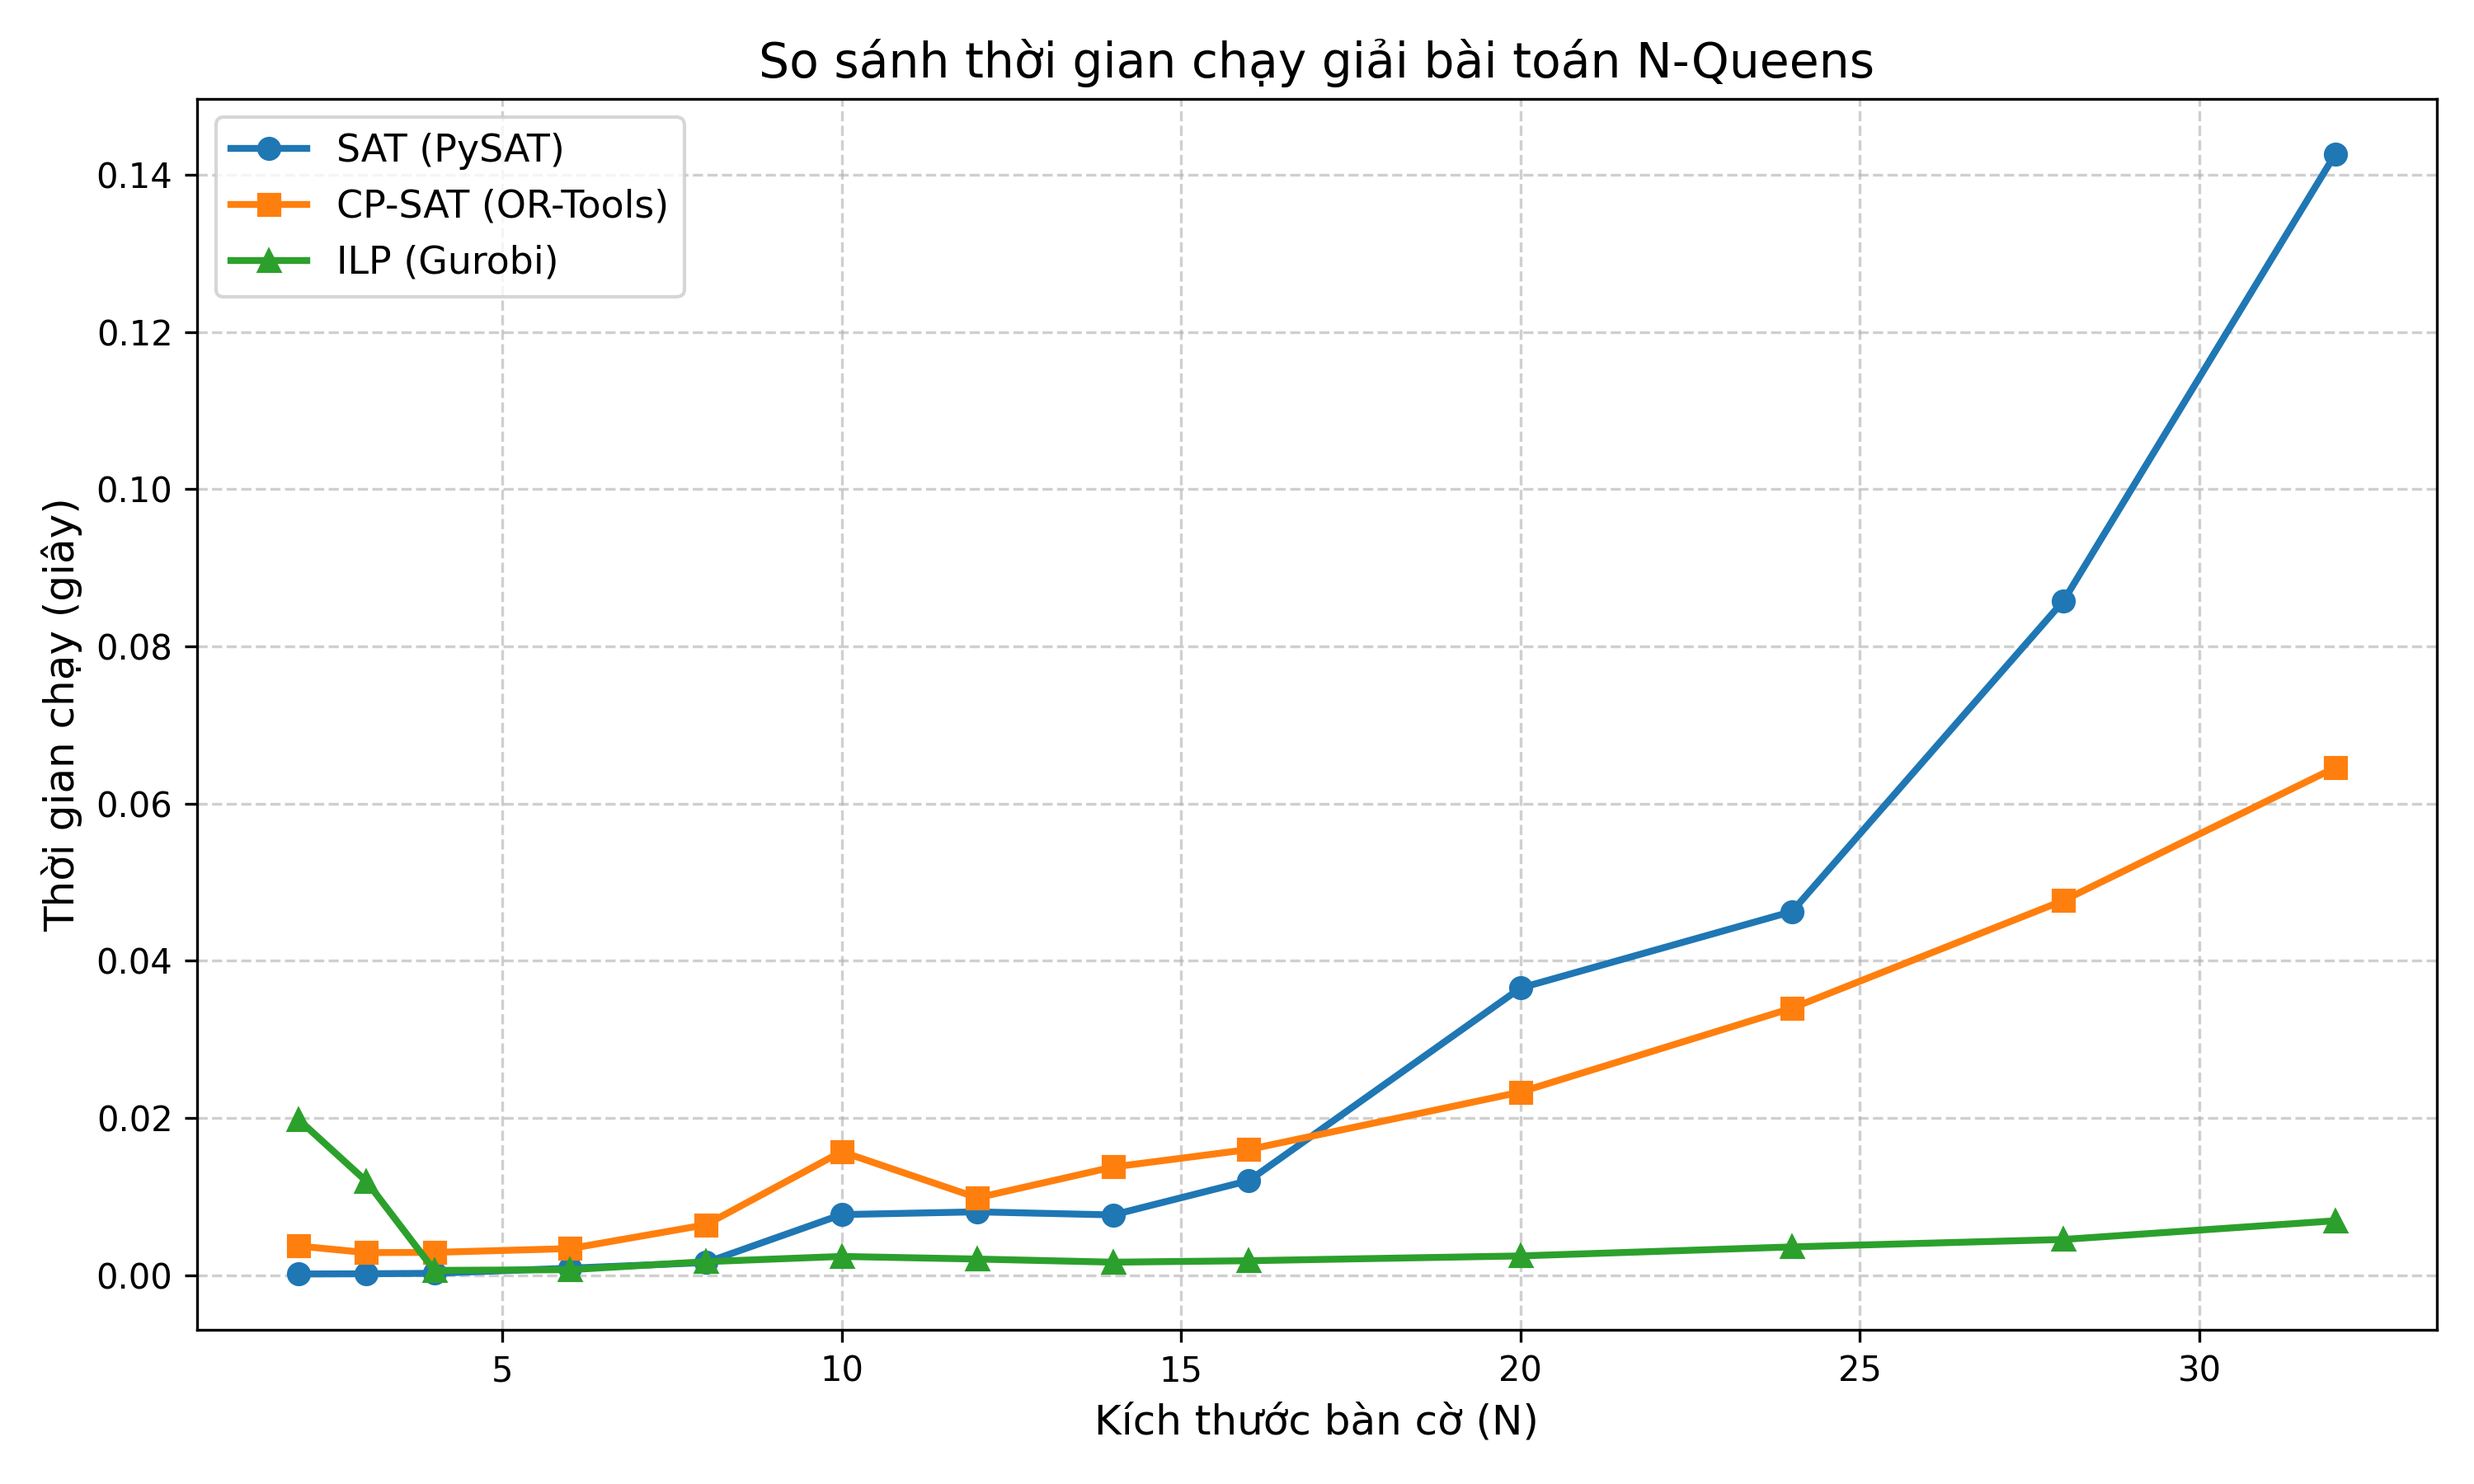
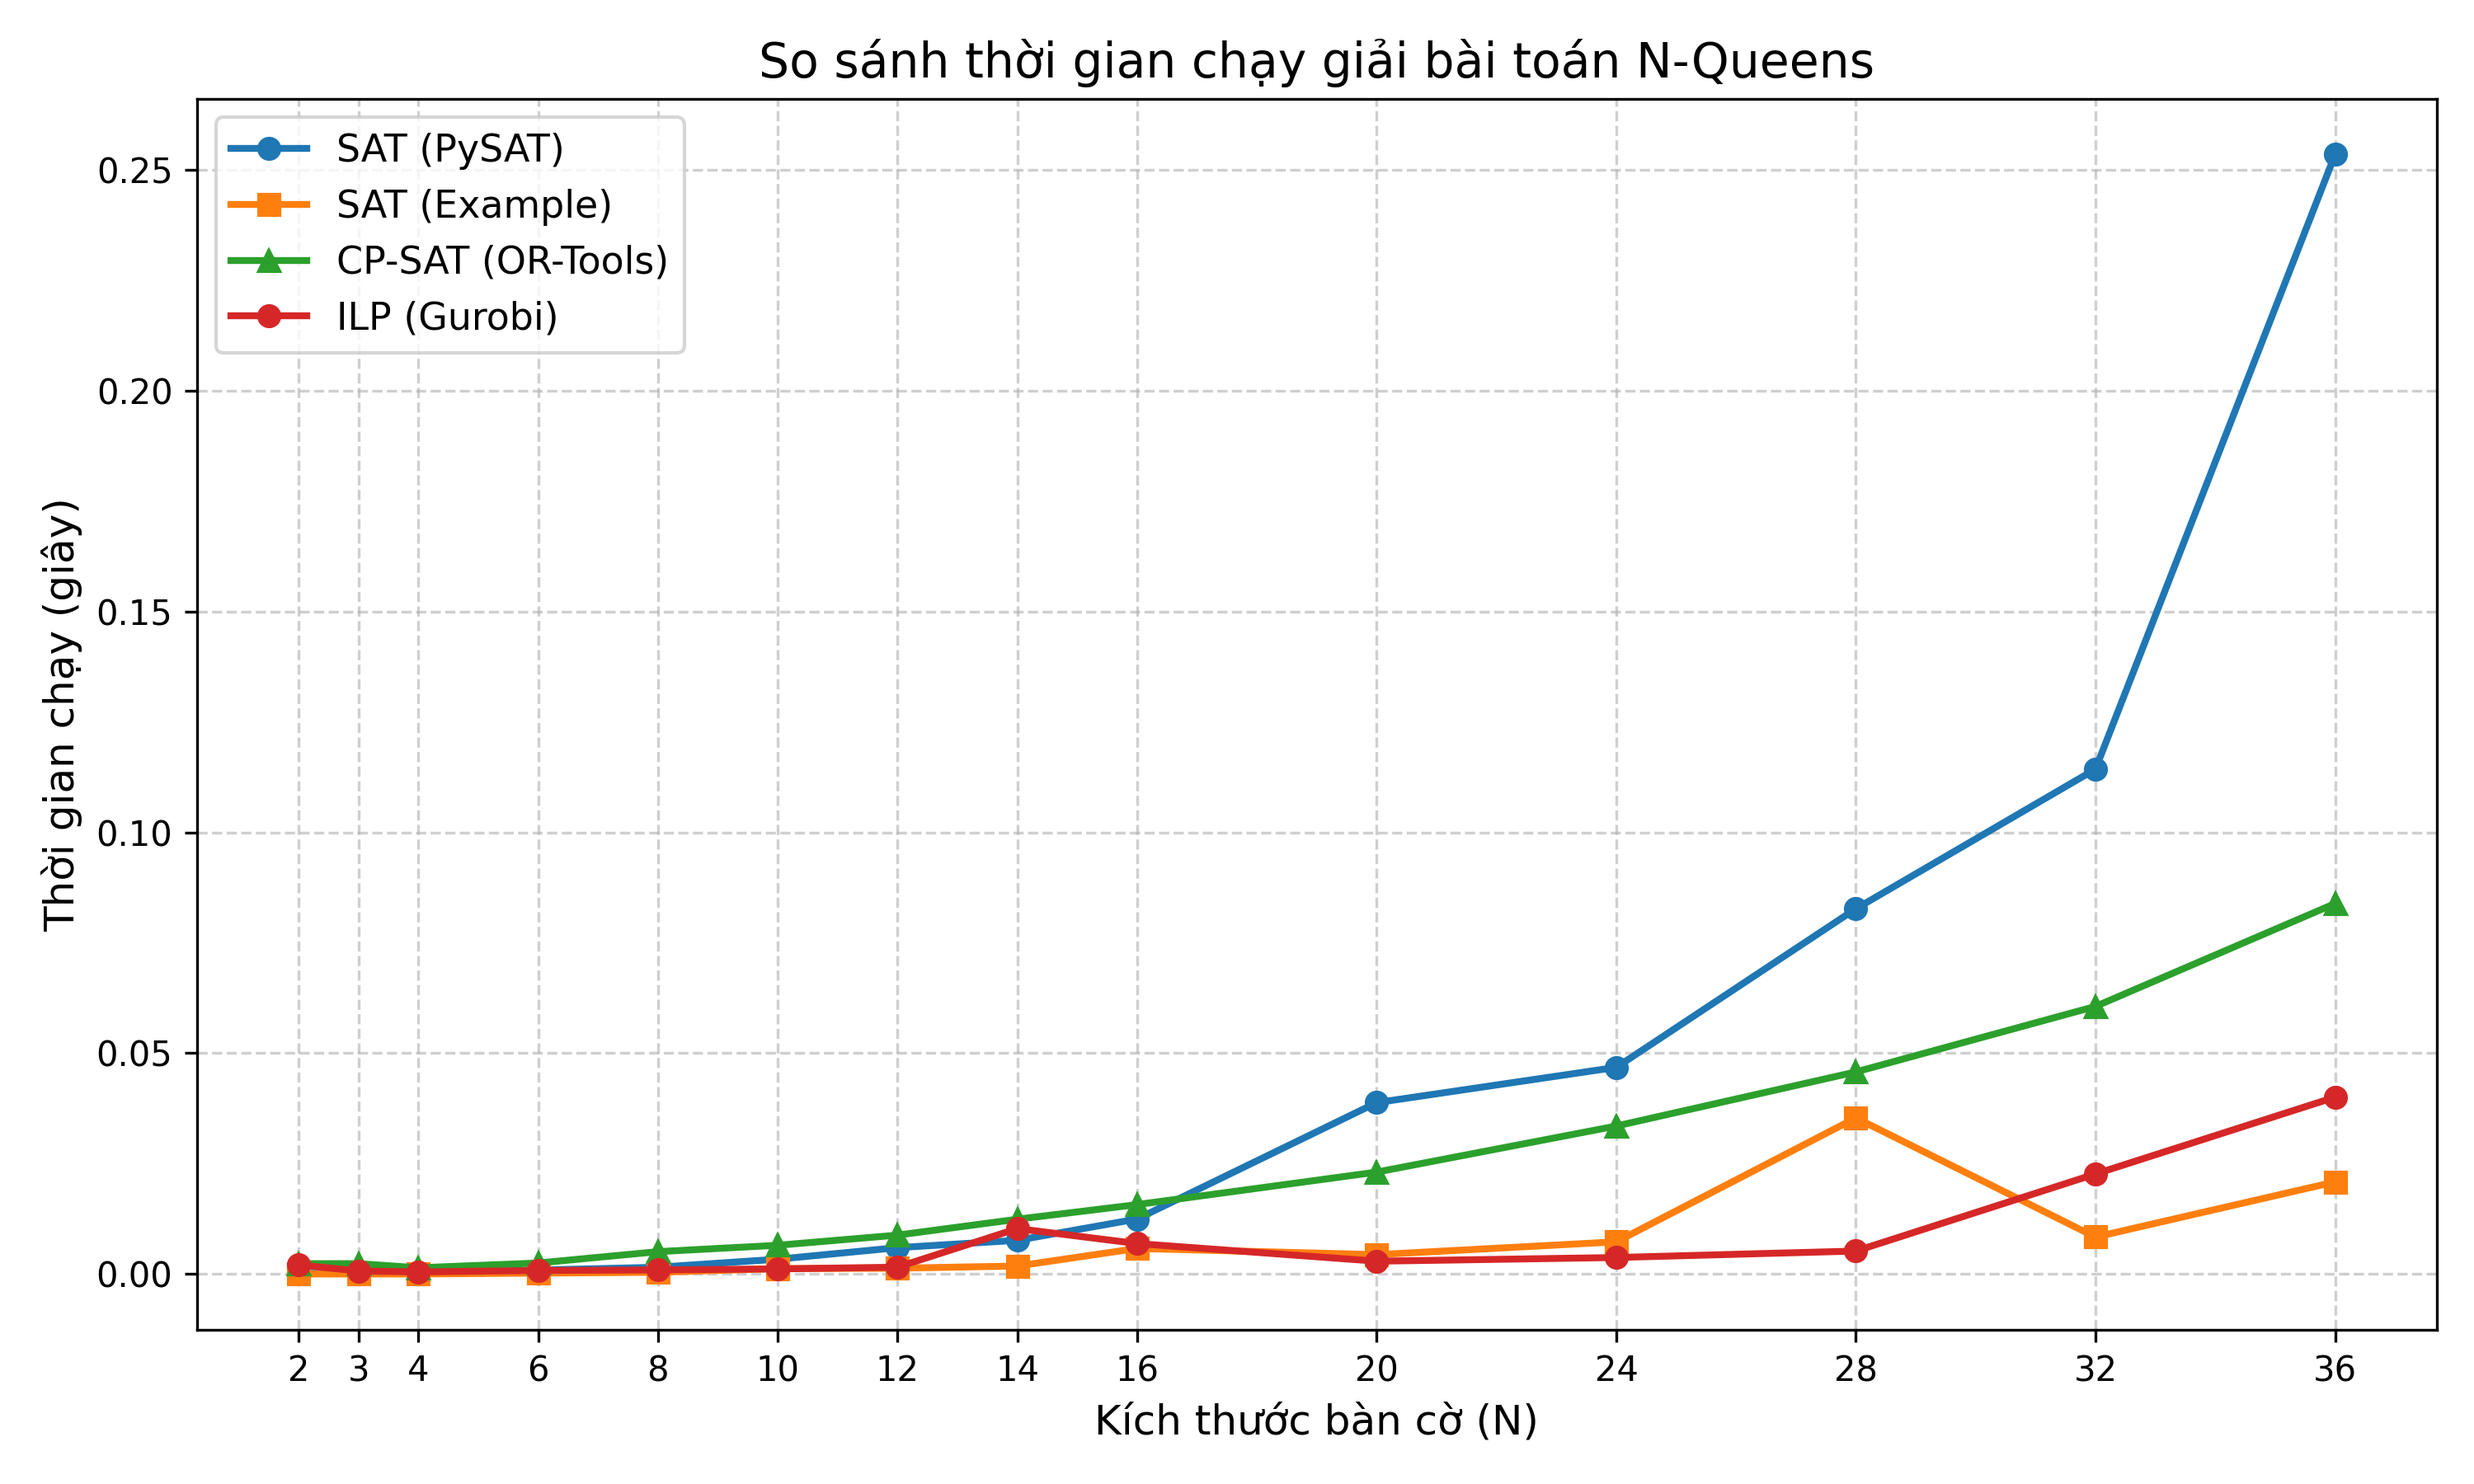
cập nhật testcases + thêm file example

diff --git a/src/example_sat_model.py b/src/example_sat_model.py
@@ -1,0 +1,81 @@
+import math
+import time
+from pysat.solvers import Glucose3
+
+def solve_nqueens_binary_encoding(n):
+    # Số bit cần thiết để biểu diễn chỉ số cột từ 0 đến n - 1
+    k = math.ceil(math.log2(n)) if n > 1 else 1
+
+    # Ánh xạ bit thứ b của hàng r sang biến SAT (1-based index)
+    # r chạy từ 0 đến n - 1, b chạy từ 0 đến k - 1
+    def bit_var(r, b):
+        return r * k + b + 1
+
+    clauses = []
+
+    # 1. Cấm các giá trị cột không hợp lệ: c >= n (nếu 2^k > n)
+    # Nếu một cấu hình bit tạo ra giá trị c >= n, phủ định cấu hình bit đó
+    for r in range(n):
+        for val in range(n, 1 << k):
+            clause = []
+            for b in range(k):
+                if (val >> b) & 1:
+                    clause.append(-bit_var(r, b))
+                else:
+                    clause.append(bit_var(r, b))
+            clauses.append(clause)
+
+    # Hàm tạo mệnh đề cấm: (hàng r1 chọn cột c1) VÀ (hàng r2 chọn cột c2)
+    # ~(r1 == c1 AND r2 == c2) <=> ~(r1 == c1) OR ~(r2 == c2)
+    def add_conflict(r1, c1, r2, c2):
+        clause = []
+        for b in range(k):
+            # Nếu bit b của c1 là 1, phủ định là -bit_var, ngược lại là bit_var
+            clause.append(-bit_var(r1, b) if ((c1 >> b) & 1) else bit_var(r1, b))
+        for b in range(k):
+            clause.append(-bit_var(r2, b) if ((c2 >> b) & 1) else bit_var(r2, b))
+        clauses.append(clause)
+
+    # 2. Xung đột giữa 2 hàng r1 và r2 (r1 < r2)
+    for r1 in range(n):
+        for r2 in range(r1 + 1, n):
+            for c1 in range(n):
+                for c2 in range(n):
+                    # Cùng cột: c1 == c2
+                    # Cùng đường chéo: |r1 - r2| == |c1 - c2|
+                    if c1 == c2 or abs(r1 - r2) == abs(c1 - c2):
+                        add_conflict(r1, c1, r2, c2)
+
+    # Khởi tạo solver Glucose3 và nạp tập mệnh đề
+    solver = Glucose3()
+    solver.append_formula(clauses)
+
+    t0 = time.perf_counter()
+    is_sat = solver.solve()
+    runtime = time.perf_counter() - t0
+
+    solution = None
+    if is_sat:
+        model = set(solver.get_model())
+        solution = []
+        for r in range(n):
+            # Giải mã các bit để khôi phục chỉ số cột cho hàng r
+            col = 0
+            for b in range(k):
+                if bit_var(r, b) in model:
+                    col |= (1 << b)
+            solution.append(col)
+
+    solver.delete()
+    return is_sat, runtime, solution, len(clauses), n * k
+
+if __name__ == "__main__":
+    n = 8
+    is_sat, runtime, solution, num_clauses, num_vars = solve_nqueens_binary_encoding(n)
+    
+    print(f"N = {n}")
+    print(f"Số biến: {num_vars}, Số mệnh đề: {num_clauses}")
+    print(f"Satisfiable: {is_sat}")
+    print(f"Thời gian solver: {runtime:.6f} giây")
+    if is_sat:
+        print(f"Vị trí các cột qua từng hàng: {solution}")

diff --git a/src/ilp_model.py b/src/ilp_model.py
@@ -5,7 +5,7 @@ from gurobipy import GRB
 def solve_ilp_gurobi(n):
     start = time.perf_counter()
     model = gp.Model("NQueens")
-    model.setParam('OutputFlag', 0)  # Tắt log in ra console
+    model.setParam('OutputFlag', 0)
 
     # Biến nhị phân x[i, j] = 1 nếu đặt hậu tại (i, j)
     x = model.addVars(n, n, vtype=GRB.BINARY, name="x")
@@ -18,14 +18,17 @@ def solve_ilp_gurobi(n):
     for j in range(n):
         model.addConstr(gp.quicksum(x[i, j] for i in range(n)) == 1)
 
-    # Đường chéo tối đa 1 quân hậu
-    for d in range(-(n - 1), n):
-        d1 = [x[r, r - d] for r in range(n) if 0 <= r - d < n]
-        d2 = [x[r, d - r] for r in range(n) if 0 <= d - r < n]
-        if len(d1) > 1:
-            model.addConstr(gp.quicksum(d1) <= 1)
-        if len(d2) > 1:
-            model.addConstr(gp.quicksum(d2) <= 1)
+    # Đường chéo chính (\): r - c = k với k từ -(n - 1) đến n - 1
+    for k in range(-(n - 1), n):
+        diag_main = [x[r, r - k] for r in range(n) if 0 <= r - k < n]
+        if len(diag_main) > 1:
+            model.addConstr(gp.quicksum(diag_main) <= 1)
+
+    # Đường chéo phụ (/): r + c = k với k từ 0 đến 2 * n - 2
+    for k in range(2 * n - 1):
+        diag_anti = [x[r, k - r] for r in range(n) if 0 <= k - r < n]
+        if len(diag_anti) > 1:
+            model.addConstr(gp.quicksum(diag_anti) <= 1)
 
     model.optimize()
     runtime = time.perf_counter() - start

diff --git a/src/benchmark.py b/src/benchmark.py
@@ -4,11 +4,13 @@ import matplotlib.pyplot as plt
 from sat_model import solve_n_queens
 from cp_model import solve_cp_sat
 from ilp_model import solve_ilp_gurobi
+from example_sat_model import solve_nqueens_binary_encoding as solve_n_queens_example
 
 def benchmark_models(test_cases, output_csv="BTL1-NQueen-Le_Ngoc_Phong\\results\\benchmark_comparison.csv", chart_file="BTL1-NQueen-Le_Ngoc_Phong\\results\\benchmark_chart.png"):
     # Danh sách các solver cần so sánh: (Tên hiển thị, Hàm thực thi)
     solvers = [
         ("SAT (PySAT)", solve_n_queens),
+        ("SAT (Example)", solve_n_queens_example),
         ("CP-SAT (OR-Tools)", solve_cp_sat),
         ("ILP (Gurobi)", solve_ilp_gurobi)
     ]
@@ -80,6 +82,9 @@ def plot_comparison(results, solvers, chart_file):
 
     plt.xlabel("Kích thước bàn cờ (N)", fontsize=12)
     plt.ylabel("Thời gian chạy (giây)", fontsize=12)
+
+    plt.xticks(n_values)
+
     plt.title("So sánh thời gian chạy giải bài toán N-Queens", fontsize=14)
     plt.grid(True, linestyle="--", alpha=0.6)
     plt.legend(fontsize=11)
@@ -89,6 +94,6 @@ def plot_comparison(results, solvers, chart_file):
 
 
 if __name__ == "__main__":
-    test_cases = [2, 3, 4, 6, 8, 10, 12, 14, 16, 20, 24, 28, 32]
+    test_cases = [2, 3, 4, 6, 8, 10, 12, 14, 16, 20, 24, 28, 32, 36]
     
     benchmark_models(test_cases)
